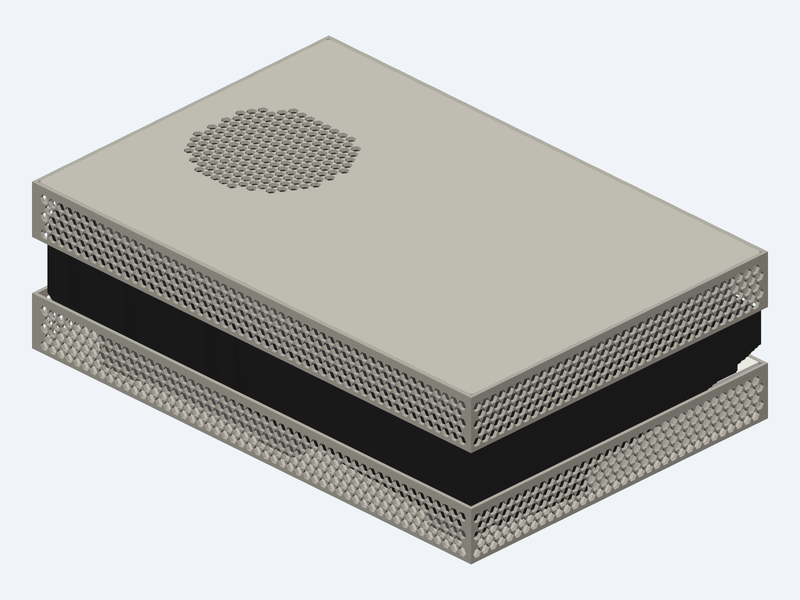
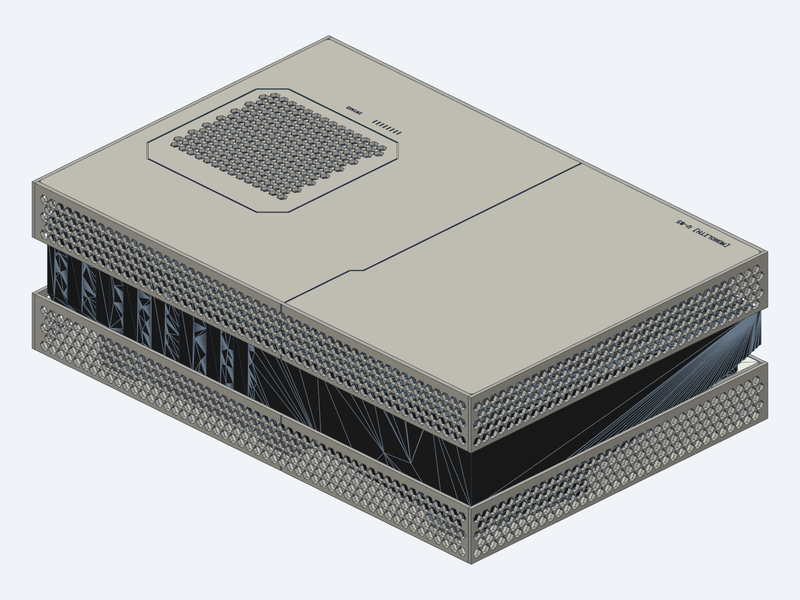
Engrave north top: faceted seam line, chamfered fan panel, MONOLITH markings

diff --git a/cad/wrap.py b/cad/wrap.py
@@ -13,9 +13,20 @@ CLR, LIP = 0.5, 2.5                          # lip-to-core clearance, lip wall t
 YF = 127.5                                   # core face |y| (proxy), plate floor half-depth (255 / 2)
 Z0, Z1 = -CLR, CORE_L + CLR                  # floor and face/back lips span
 HEX_F, HEX_W = 6.0, 1.2                      # honeycomb: hole across flats, web -> ~69 % open
-FAN_Y, FAN_Z, FAN_R = 3.0, 305.0, 55.0       # fan grille (as slab.py)
+FAN_Y, FAN_Z = 3.0, 305.0                     # fan centre (as slab.py)
 SLOT_Z, SLOT_X = (22.5, 145.0), (-25.5, -20.5)   # disc slot, from the stock disc-plate scan
 COL_LIP = "#bdbbb5"                          # a shade off the plate so the strips read as separate parts
+ENGRAVE, GROOVE = 0.4, 1.0                   # engraving depth, panel-line width
+# tile seam as a faceted panel line (y, z): clears every clip of BOTH plates by >= 3 mm
+SEAM = [(-YF - 3, 164.0), (-70.0, 164.0), (-64.0, 158.0), (YF + 3, 158.0)]
+PANEL_H, PANEL_C = 62.0, 14.0                # fan panel: half size, corner chamfer (hides the round fan)
+FONT = "/usr/share/fonts/source-foundry-hack-fonts/Hack-Regular.ttf"
+NAME = "[MONOLITH] U-05"
+# shortcut: clip footprints (y0, y1, z0, z1) copied from cad/core/shelf_*_c.stl bounds; regenerate when the
+# slide-in clip strips are designed
+SHELVES = {"flat": [(-116, 118, 17, 50), (-118, -45, 170, 366), (-59, 39, 174, 251), (60, 104, 209, 337),
+                    (97, 117, 123, 155)],
+           "disk": [(-117, -97, 17, 49), (-118, -45, 167, 365), (-61, 41, 161, 251), (60, 84, 294, 336)]}
 
 
 def box(x0, x1, y0, y1, z0, z1):
@@ -58,6 +69,37 @@ def holes(axis, length, at, pts):
     return bd.Compound([bd.Pos(*pos(a, b)) * t for a, b in pts])
 
 
+def panel_pts():
+    y0, z0, h, c = FAN_Y, FAN_Z, PANEL_H, PANEL_C
+    return [(y0 - h + c, z0 - h), (y0 + h - c, z0 - h), (y0 + h, z0 - h + c), (y0 + h, z0 + h - c),
+            (y0 + h - c, z0 + h), (y0 - h + c, z0 + h), (y0 - h, z0 + h - c), (y0 - h, z0 - h + c)]
+
+
+def top_groove(pts, x_top, closed=False):
+    """1 mm panel line, ENGRAVE deep, along (y, z) points on the outer face at x_top (+X side)"""
+    pts = pts + pts[:1] if closed else pts
+    cut = []
+    for (y0, z0), (y1, z1) in zip(pts, pts[1:]):
+        dy, dz = y1 - y0, z1 - z0
+        n = (dy * dy + dz * dz) ** 0.5
+        oy, oz = -dz / n * GROOVE / 2, dy / n * GROOVE / 2
+        quad = [(y0 + oy, z0 + oz), (y1 + oy, z1 + oz), (y1 - oy, z1 - oz), (y0 - oy, z0 - oz)]
+        face = bd.Face(bd.Wire.make_polygon([bd.Vector(x_top + 0.01, y, z) for y, z in quad], close=True))
+        cut.append(bd.extrude(face, amount=ENGRAVE + 0.01, dir=(-1, 0, 0)))
+    for y, z in pts:                                                   # round the joints
+        cut.append(bd.Pos(x_top, y, z) * bd.Rot(0, 90, 0) * bd.Cylinder(GROOVE / 2, 2 * ENGRAVE))
+    return bd.Compound(cut)
+
+
+def top_text(txt, size, y_base, z_start, x_top):
+    """engraved text on the +X outer face, reading +Z (left to right seen from the front), glyph tops toward -Y"""
+    pl = bd.Plane(origin=(x_top + 0.01, y_base, z_start), x_dir=(0, 0, 1), z_dir=(1, 0, 0))
+    t = pl * bd.Text(txt, font_size=size, font_path=FONT, align=(bd.Align.MIN, bd.Align.MIN))
+    solid = bd.extrude(t, amount=ENGRAVE + 0.01, dir=(-1, 0, 0))
+    assert solid.volume > 0, txt
+    return solid
+
+
 def plate_set(side):
     """side +1 = flat plate (north when lying), -1 = disc plate (south, bottom)"""
     name = "flat" if side > 0 else "disk"
@@ -71,9 +113,22 @@ def plate_set(side):
     # floor tray (one part here; the stepped two-tile seam is not drawn yet)
     floor = box(*fl, -YF, YF, Z0, Z1)
     floor = bd.fillet(floor.edges().filter_by(bd.Axis.X), 3)
-    fan = [(a, b) for a, b in hex_grid(FAN_Z - FAN_R, FAN_Z + FAN_R, FAN_Y - FAN_R, FAN_Y + FAN_R)
-           if (a - FAN_Z) ** 2 + (b - FAN_Y) ** 2 <= (FAN_R - HEX_F / 2) ** 2]
+    h, m = PANEL_H - 4, HEX_F / 2 + 2.5                               # hole field inside the panel line
+    def keep(z, y):
+        dy, dz = abs(y - FAN_Y), abs(z - FAN_Z)
+        if dy > h - m or dz > h - m or dy + dz > 2 * PANEL_H - PANEL_C - 6 - m:
+            return False
+        return not any(y0 - m < y < y1 + m and z0 - m < z < z1 + m for y0, y1, z0, z1 in SHELVES[name])
+    fan = hex_grid(FAN_Z - PANEL_H, FAN_Z + PANEL_H, FAN_Y - PANEL_H, FAN_Y + PANEL_H, inside=keep)
     floor = floor - holes("x", FLOOR + 2, (fl[0] + fl[1]) / 2, fan)
+    if side > 0:                                                      # north top: panel lines + markings
+        x_top = out
+        floor = floor - top_groove(SEAM, x_top) - top_groove(panel_pts(), x_top, closed=True)
+        floor = floor - top_text(NAME, 5.0, YF - 7, 20, x_top)
+        floor = floor - top_text("INTAKE", 3.5, FAN_Y + PANEL_H + 11, FAN_Z - 6, x_top)
+        for k in range(8):                                             # tick row left of INTAKE
+            z = FAN_Z - 40 + 3 * k
+            floor = floor - box(x_top - ENGRAVE, x_top + 0.01, FAN_Y + PANEL_H + 7, FAN_Y + PANEL_H + 11, z - 0.4, z + 0.4)
     floor.color, floor.label = COL_PLATE, f"plate_{name}"
     parts.append(floor)
 
@@ -88,6 +143,8 @@ def plate_set(side):
             if side < 0:                                                   # disc slot, scan-derived
                 wall = wall - box(*SLOT_X, y_in - 1, y_out + 1, *SLOT_Z)
         wall = wall - holes("y", LIP + 2, (y_in + y_out) / 2, vent)
+        zs = SEAM[-1][1] if ys > 0 else SEAM[0][1]                      # lip split line continues the seam
+        wall = wall - box(lo, hi, y_out - ys * ENGRAVE, y_out + ys * 0.01, zs - GROOVE / 2, zs + GROOVE / 2)
         extras = []
         if tag == "face" and side > 0:                                     # colour inserts, seen from the sofa
             xc = (lo + hi) / 2

diff --git a/README.md b/README.md
@@ -4,6 +4,7 @@ Flat, PS1-grey replacement side plates that turn an original PS5 Disc Edition in
 > **Status: pre-alpha draft.** Not printed, and the fit is not tested. Some parts are still placeholders, listed under [What's missing](#whats-missing).
 
 ![Draft, isometric](cad/renders/wrap_iso.png)
+![Draft, top](cad/renders/wrap_top.png)
 ![Draft, face](cad/renders/wrap_face.png)
 
 ## Design
@@ -11,8 +12,9 @@ Flat, PS1-grey replacement side plates that turn an original PS5 Disc Edition in
 - **Wrap-around plates.** Two flat plates (north and south) wrap the console with **level lips** on the face, back and both ends. A **constant 40 mm black stripe** of the console body stays visible all round, which hides the stock curves.
 - **Separate lip strips.** The lips are printed as their own strips and welded to the plate edge, so the plate tiles stay 255 mm deep and fit a 256 mm print bed.
 - **Disc drive behind the lip.** The drive sits behind the level south lip, like on the stock faceplate. The disc slot's size and position are taken from a scan of the stock plate: about 122.5 × 5 mm.
-- **Honeycomb vents everywhere.** 6 mm hexagonal holes with 1.2 mm webs, ~69 % open: the Ø110 fan grilles on both plates, the face lips at the fan end, the back lips along their full length (they cover the exhaust), and both end walls.
+- **Honeycomb vents everywhere.** 6 mm hexagonal holes with 1.2 mm webs, ~69 % open: the fan grilles on both plates, the face lips at the fan end, the back lips along their full length (they cover the exhaust), and both end walls.
 - **Four-colour inserts** on the face, visible from where you sit. No Sony logos or trademarks.
+- **Engraved top, single grey.** The tile seam is drawn as a faceted panel line, so the joint hides in a deliberate groove. The fan grille sits inside a chamfered panel outline, and small mono markings read `[MONOLITH] U-05` and `INTAKE`.
 - **Slide-in, replaceable clip strips** hold the plates onto the console's stock clip points.
 - **Materials:** ASA or ABS for the plates, lips and clips, TPU for the feet. No PLA, because of the heat.
 

diff --git a/CLAUDE.md b/CLAUDE.md
@@ -28,6 +28,8 @@ disc drive, light bars are NOT covered). Style: minimalism, subtle touches, PS1 
 | Assembly | Weld tiles on the bench (only solvent step, never near the console) → slide clip strips in → fit to console |
 | Feet | TPU, ~12 mm, on the bottom plate (bottom fan grille must breathe) |
 | Wrap / lips (2026-11-02) | Plates wrap the core with **level lips and a constant 40 mm black stripe** on face, back and both ends (devynPC 1:05 sketch; `docs/mockups/wrap_views.png`). Lips sit in front of the core face, so they are **separate lip strips welded to the plate edge**; the plate tiles stay 255 deep for the 256 bed. Face lips vented at the fan end; back lips vented end to end (honeycomb, see Grille), plus port cut-outs (TODO Job 1D); south face lip runs level over the drive with a disc slot hole |
+| North top (2026-11-02) | Single grey, engraved 0.4 mm only (no colour inlay, keeps PS1 calm). The tile seam is a **faceted panel line**: z 164 behind y −70, a 45° jog, then z 158. One path clears every clip of **both** plates by ≥3 mm, and it continues as the split groove on the face lips (158) and back lips (164). The fan grille stays honeycomb inside a **chamfered square panel line** (124 mm, 14 mm chamfers), so it doesn't read as a round fan. Markings in Hack mono: `[MONOLITH] U-05` at the front corner of the drive end, `INTAKE` plus 8 ticks by the panel. Style cue: the Xbox One X Cyberpunk 2077 controller's split line and bracketed text, with no CDPR or Microsoft art copied |
+| Lip strip length | Face and back strips (381 mm) don't fit the bed, so they split at the seam z. End strips (261 mm) fit diagonally at ~25° |
 | Accent placement | Colour inserts on the **north face lip** (seen from the working orientation), not on the plate top |
 
 ## Printing constraints

diff --git a/HANDOFF.md b/HANDOFF.md
@@ -100,3 +100,6 @@ Mike: the back edges must not obstruct the exhaust, so use bigger openings or a 
 ## 3D draft (2026-11-02)
 `cad/wrap.py` → `wrap_horizontal` (386 × 261 × 131 mm, 29 parts, ~50 s cold build). Its parts: floor trays with a honeycomb grille, separate face, back and end lip strips (honeycomb vents, the disc slot in the south face lip, colour inserts on the north face lip), TPU feet, the core and drive proxies, and the old shelves relabelled `clip_placeholder_*`. Not drawn: stepped seam, clip channels, port cut-outs, disc guide tunnel.
 **Open question for Mike, orientation:** the model comes from the real-plate scans, and the disc slot confirms +Y is the front. Seen from the front with the console lying disc-side down, it puts the **drive end on the left**. Mike described the drive at the bottom **right**, and `wrap_views.png` follows his description. Ask him to check on the console; this affects only how the drawings are labelled, not the fit.
+
+## North top treatment (2026-11-02, built in `wrap.py`)
+Mike's answers: hidden seam yes; hide the fan grille but keep the honeycomb; generic technical markings named **MONOLITH**; no colour inlay; single grey. Reference: the Xbox One X Cyberpunk 2077 controller (split line, bracketed mono text). Details are in the CLAUDE.md row "North top". Clip footprints in `wrap.py` `SHELVES` are bboxes copied from the shelf STLs (a `shortcut:` comment). Regenerate them once the slide-in strips exist, and re-check the seam window: z 155…170 north, ≤158 disc middle.
